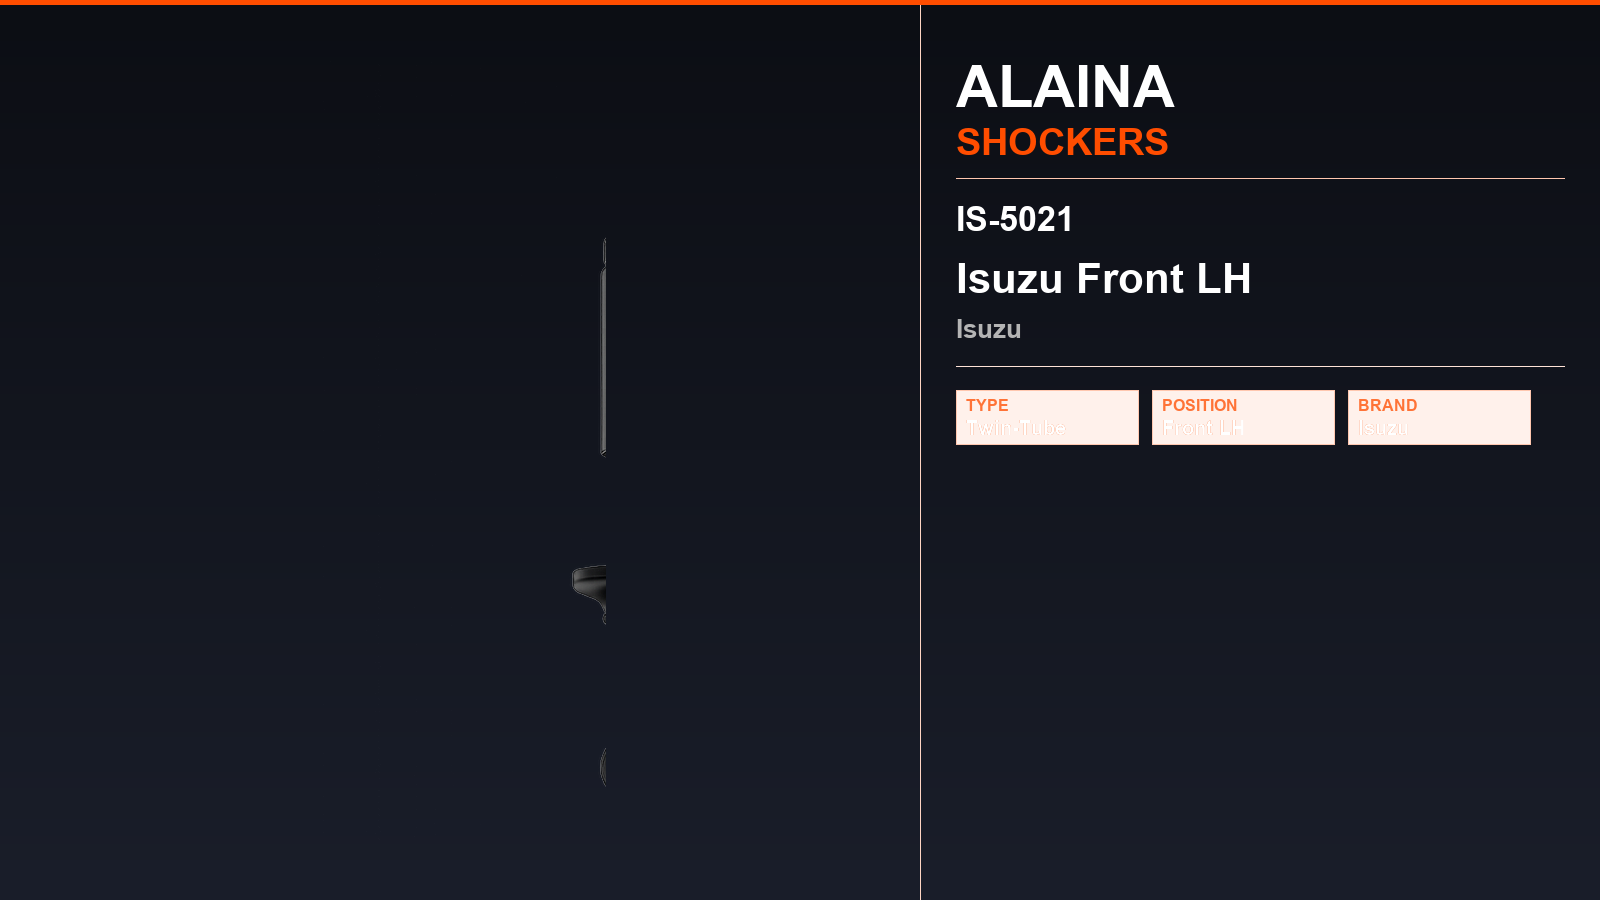
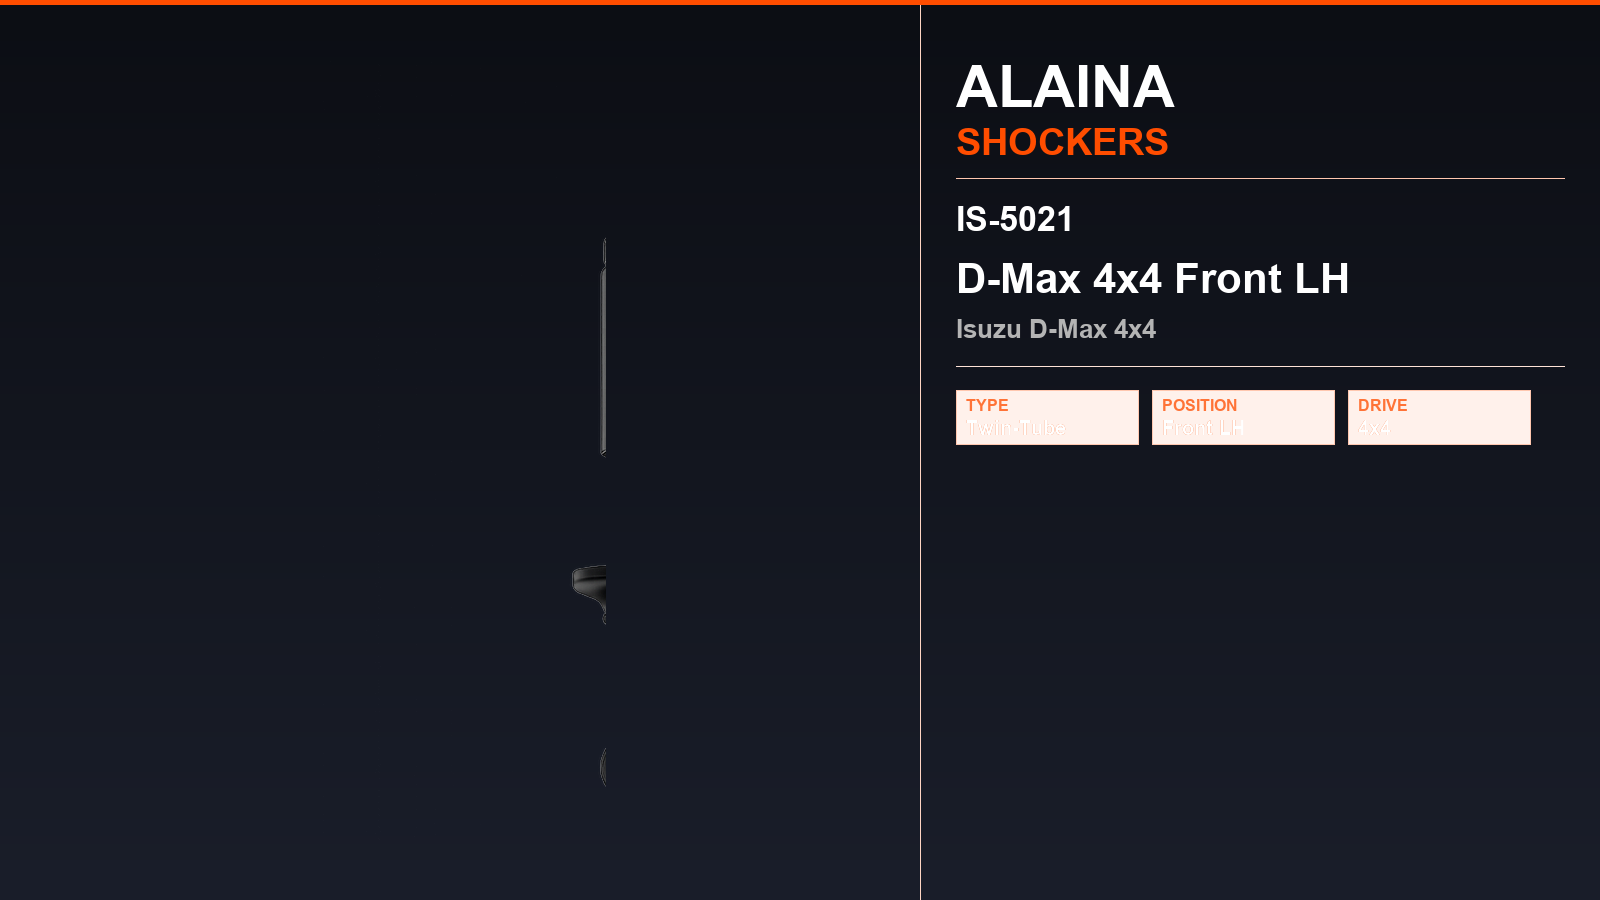
Add D-Max 2WD Front LH/RH; rename existing Isuzu cards to D-Max 4x4

Changed region(s): [[0.5938, 0.28, 0.8438, 0.3733], [0.8438, 0.4356, 0.875, 0.4667]]

diff --git a/index.html b/index.html
@@ -768,8 +768,10 @@
         <div class="cat-card" data-m="Mitsubishi" data-cat="RS"><div class="cat-card-img-wrap has-photo" onclick="openLightbox('images/lancer-cedia-rear-card.png','Lancer Cedia Rear — AL-MT-LA-5009')"><img src="images/lancer-cedia-rear.png" class="cc-img"/><div class="cc-zoom-hint"><svg width="14" height="14" viewBox="0 0 24 24" fill="none" stroke="currentColor" stroke-width="2"><circle cx="11" cy="11" r="8"/><line x1="21" y1="21" x2="16.65" y2="16.65"/><line x1="11" y1="8" x2="11" y2="14"/><line x1="8" y1="11" x2="14" y2="11"/></svg> View</div></div><div class="cat-card-body"><div class="cc-top-row"><span class="cc-brand">Mitsubishi</span><span class="cc-cat-tag">Rear</span></div><div class="cc-partno">AL-MT-LA-5009</div><div class="cc-name">Lancer Cedia Rear</div><div class="cc-app">Mitsubishi Lancer Cedia</div></div><div class="cc-footer"><a href="#contact" class="cc-enquire">Enquire →</a></div></div>
 
         <div class="cat-section-divider"><span class="cat-sec-label">Isuzu / Suzuki / MG — Rare Struts</span><span class="cat-sec-count">8 parts</span></div>
-        <div class="cat-card" data-m="Isuzu" data-cat="RS"><div class="cat-card-img-wrap has-photo" onclick="openLightbox('images/isuzu-front-lh-card.png','Isuzu Front LH — IS-5021')"><img src="images/isuzu-front-lh.png" class="cc-img"/><div class="cc-zoom-hint"><svg width="14" height="14" viewBox="0 0 24 24" fill="none" stroke="currentColor" stroke-width="2"><circle cx="11" cy="11" r="8"/><line x1="21" y1="21" x2="16.65" y2="16.65"/><line x1="11" y1="8" x2="11" y2="14"/><line x1="8" y1="11" x2="14" y2="11"/></svg> View</div></div><div class="cat-card-body"><div class="cc-top-row"><span class="cc-brand">Isuzu</span><span class="cc-cat-tag">Front LH</span></div><div class="cc-partno">IS-5021</div><div class="cc-name">Isuzu Front LH</div><div class="cc-app">Isuzu</div></div><div class="cc-footer"><a href="#contact" class="cc-enquire">Enquire →</a></div></div><div class="cat-card" data-m="Isuzu" data-cat="RS"><div class="cat-card-img-wrap has-photo" onclick="openLightbox('images/isuzu-front-rh-card.png','Isuzu Front RH — IS-5021-R')"><img src="images/isuzu-front-rh.png" class="cc-img"/><div class="cc-zoom-hint"><svg width="14" height="14" viewBox="0 0 24 24" fill="none" stroke="currentColor" stroke-width="2"><circle cx="11" cy="11" r="8"/><line x1="21" y1="21" x2="16.65" y2="16.65"/><line x1="11" y1="8" x2="11" y2="14"/><line x1="8" y1="11" x2="14" y2="11"/></svg> View</div></div><div class="cat-card-body"><div class="cc-top-row"><span class="cc-brand">Isuzu</span><span class="cc-cat-tag">Front RH</span></div><div class="cc-partno">IS-5021-R</div><div class="cc-name">Isuzu Front RH</div><div class="cc-app">Isuzu</div></div><div class="cc-footer"><a href="#contact" class="cc-enquire">Enquire →</a></div></div>
-        <div class="cat-card" data-m="Isuzu" data-cat="RS"><div class="cat-card-img-wrap has-photo" onclick="openLightbox('images/isuzu-rear-lh-card.png','Isuzu Rear LH — IS-5022')"><img src="images/isuzu-rear-lh.png" class="cc-img"/><div class="cc-zoom-hint"><svg width="14" height="14" viewBox="0 0 24 24" fill="none" stroke="currentColor" stroke-width="2"><circle cx="11" cy="11" r="8"/><line x1="21" y1="21" x2="16.65" y2="16.65"/><line x1="11" y1="8" x2="11" y2="14"/><line x1="8" y1="11" x2="14" y2="11"/></svg> View</div></div><div class="cat-card-body"><div class="cc-top-row"><span class="cc-brand">Isuzu</span><span class="cc-cat-tag">Rear LH</span></div><div class="cc-partno">IS-5022</div><div class="cc-name">Isuzu Rear LH</div><div class="cc-app">Isuzu</div></div><div class="cc-footer"><a href="#contact" class="cc-enquire">Enquire →</a></div></div><div class="cat-card" data-m="Isuzu" data-cat="RS"><div class="cat-card-img-wrap has-photo" onclick="openLightbox('images/isuzu-rear-rh-card.png','Isuzu Rear RH — IS-5022-R')"><img src="images/isuzu-rear-rh.png" class="cc-img"/><div class="cc-zoom-hint"><svg width="14" height="14" viewBox="0 0 24 24" fill="none" stroke="currentColor" stroke-width="2"><circle cx="11" cy="11" r="8"/><line x1="21" y1="21" x2="16.65" y2="16.65"/><line x1="11" y1="8" x2="11" y2="14"/><line x1="8" y1="11" x2="14" y2="11"/></svg> View</div></div><div class="cat-card-body"><div class="cc-top-row"><span class="cc-brand">Isuzu</span><span class="cc-cat-tag">Rear RH</span></div><div class="cc-partno">IS-5022-R</div><div class="cc-name">Isuzu Rear RH</div><div class="cc-app">Isuzu</div></div><div class="cc-footer"><a href="#contact" class="cc-enquire">Enquire →</a></div></div>
+        <div class="cat-card" data-m="Isuzu" data-cat="RS"><div class="cat-card-img-wrap has-photo" onclick="openLightbox('images/isuzu-front-lh-card.png','Isuzu Front LH — IS-5021')"><img src="images/isuzu-front-lh.png" class="cc-img"/><div class="cc-zoom-hint"><svg width="14" height="14" viewBox="0 0 24 24" fill="none" stroke="currentColor" stroke-width="2"><circle cx="11" cy="11" r="8"/><line x1="21" y1="21" x2="16.65" y2="16.65"/><line x1="11" y1="8" x2="11" y2="14"/><line x1="8" y1="11" x2="14" y2="11"/></svg> View</div></div><div class="cat-card-body"><div class="cc-top-row"><span class="cc-brand">Isuzu</span><span class="cc-cat-tag">Front LH</span></div><div class="cc-partno">IS-5021</div><div class="cc-name">D-Max 4x4 Front LH</div><div class="cc-app">Isuzu</div></div><div class="cc-footer"><a href="#contact" class="cc-enquire">Enquire →</a></div></div><div class="cat-card" data-m="Isuzu" data-cat="RS"><div class="cat-card-img-wrap has-photo" onclick="openLightbox('images/isuzu-front-rh-card.png','Isuzu Front RH — IS-5021-R')"><img src="images/isuzu-front-rh.png" class="cc-img"/><div class="cc-zoom-hint"><svg width="14" height="14" viewBox="0 0 24 24" fill="none" stroke="currentColor" stroke-width="2"><circle cx="11" cy="11" r="8"/><line x1="21" y1="21" x2="16.65" y2="16.65"/><line x1="11" y1="8" x2="11" y2="14"/><line x1="8" y1="11" x2="14" y2="11"/></svg> View</div></div><div class="cat-card-body"><div class="cc-top-row"><span class="cc-brand">Isuzu</span><span class="cc-cat-tag">Front RH</span></div><div class="cc-partno">IS-5021-R</div><div class="cc-name">D-Max 4x4 Front RH</div><div class="cc-app">Isuzu</div></div><div class="cc-footer"><a href="#contact" class="cc-enquire">Enquire →</a></div></div>
+        <div class="cat-card" data-m="Isuzu" data-cat="RS"><div class="cat-card-img-wrap has-photo" onclick="openLightbox('images/isuzu-rear-lh-card.png','Isuzu Rear LH — IS-5022')"><img src="images/isuzu-rear-lh.png" class="cc-img"/><div class="cc-zoom-hint"><svg width="14" height="14" viewBox="0 0 24 24" fill="none" stroke="currentColor" stroke-width="2"><circle cx="11" cy="11" r="8"/><line x1="21" y1="21" x2="16.65" y2="16.65"/><line x1="11" y1="8" x2="11" y2="14"/><line x1="8" y1="11" x2="14" y2="11"/></svg> View</div></div><div class="cat-card-body"><div class="cc-top-row"><span class="cc-brand">Isuzu</span><span class="cc-cat-tag">Rear LH</span></div><div class="cc-partno">IS-5022</div><div class="cc-name">D-Max 4x4 Rear LH</div><div class="cc-app">Isuzu</div></div><div class="cc-footer"><a href="#contact" class="cc-enquire">Enquire →</a></div></div><div class="cat-card" data-m="Isuzu" data-cat="RS"><div class="cat-card-img-wrap has-photo" onclick="openLightbox('images/isuzu-rear-rh-card.png','Isuzu Rear RH — IS-5022-R')"><img src="images/isuzu-rear-rh.png" class="cc-img"/><div class="cc-zoom-hint"><svg width="14" height="14" viewBox="0 0 24 24" fill="none" stroke="currentColor" stroke-width="2"><circle cx="11" cy="11" r="8"/><line x1="21" y1="21" x2="16.65" y2="16.65"/><line x1="11" y1="8" x2="11" y2="14"/><line x1="8" y1="11" x2="14" y2="11"/></svg> View</div></div><div class="cat-card-body"><div class="cc-top-row"><span class="cc-brand">Isuzu</span><span class="cc-cat-tag">Rear RH</span></div><div class="cc-partno">IS-5022-R</div><div class="cc-name">D-Max 4x4 Rear RH</div><div class="cc-app">Isuzu</div></div><div class="cc-footer"><a href="#contact" class="cc-enquire">Enquire →</a></div></div>
+        <div class="cat-card" data-m="Isuzu" data-cat="RS"><div class="cat-card-img-wrap has-photo" onclick="openLightbox('images/isuzu-2wd-front-lh-card.png','D-Max 2WD Front LH — IS-5023')"><img src="images/isuzu-2wd-front-lh.png" class="cc-img"/><div class="cc-zoom-hint"><svg width="14" height="14" viewBox="0 0 24 24" fill="none" stroke="currentColor" stroke-width="2"><circle cx="11" cy="11" r="8"/><line x1="21" y1="21" x2="16.65" y2="16.65"/><line x1="11" y1="8" x2="11" y2="14"/><line x1="8" y1="11" x2="14" y2="11"/></svg> View</div></div><div class="cat-card-body"><div class="cc-top-row"><span class="cc-brand">Isuzu</span><span class="cc-cat-tag">Front LH</span></div><div class="cc-partno">IS-5023</div><div class="cc-name">D-Max 2WD Front LH</div><div class="cc-app">Isuzu D-Max 2WD</div></div><div class="cc-footer"><a href="#contact" class="cc-enquire">Enquire →</a></div></div>
+        <div class="cat-card" data-m="Isuzu" data-cat="RS"><div class="cat-card-img-wrap has-photo" onclick="openLightbox('images/isuzu-2wd-front-rh-card.png','D-Max 2WD Front RH — IS-5023-R')"><img src="images/isuzu-2wd-front-rh.png" class="cc-img"/><div class="cc-zoom-hint"><svg width="14" height="14" viewBox="0 0 24 24" fill="none" stroke="currentColor" stroke-width="2"><circle cx="11" cy="11" r="8"/><line x1="21" y1="21" x2="16.65" y2="16.65"/><line x1="11" y1="8" x2="11" y2="14"/><line x1="8" y1="11" x2="14" y2="11"/></svg> View</div></div><div class="cat-card-body"><div class="cc-top-row"><span class="cc-brand">Isuzu</span><span class="cc-cat-tag">Front RH</span></div><div class="cc-partno">IS-5023-R</div><div class="cc-name">D-Max 2WD Front RH</div><div class="cc-app">Isuzu D-Max 2WD</div></div><div class="cc-footer"><a href="#contact" class="cc-enquire">Enquire →</a></div></div>
         <div class="cat-card" data-m="Suzuki" data-cat="RS"><div class="cat-card-img-wrap"><div class="cc-ph"><div class="cc-ph-icon cc-ph-RS"></div><span>Front LH</span></div></div><div class="cat-card-body"><div class="cc-top-row"><span class="cc-brand">Suzuki</span><span class="cc-cat-tag">Front LH</span></div><div class="cc-partno">AL-SU-BL-3001</div><div class="cc-name">Baleno Front LH</div><div class="cc-app">Baleno (2009)</div></div><div class="cc-footer"><a href="#contact" class="cc-enquire">Enquire →</a></div></div>
         <div class="cat-card" data-m="Suzuki" data-cat="RS"><div class="cat-card-img-wrap"><div class="cc-ph"><div class="cc-ph-icon cc-ph-RS"></div><span>Front RH</span></div></div><div class="cat-card-body"><div class="cc-top-row"><span class="cc-brand">Suzuki</span><span class="cc-cat-tag">Front RH</span></div><div class="cc-partno">AL-SU-BL-3002</div><div class="cc-name">Baleno Front RH</div><div class="cc-app">Baleno (2009)</div></div><div class="cc-footer"><a href="#contact" class="cc-enquire">Enquire →</a></div></div>
         <div class="cat-card" data-m="Suzuki" data-cat="RS"><div class="cat-card-img-wrap"><div class="cc-ph"><div class="cc-ph-icon cc-ph-RS"></div><span>Rear</span></div></div><div class="cat-card-body"><div class="cc-top-row"><span class="cc-brand">Suzuki</span><span class="cc-cat-tag">Rear</span></div><div class="cc-partno">AL-SU-BL-3009</div><div class="cc-name">Baleno Rear</div><div class="cc-app">Baleno (2009)</div></div><div class="cc-footer"><a href="#contact" class="cc-enquire">Enquire →</a></div></div>
